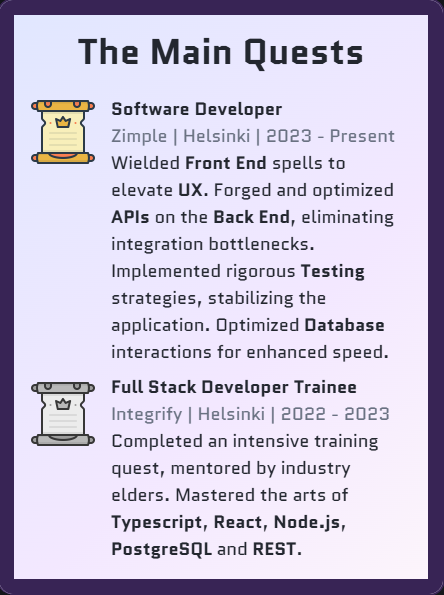
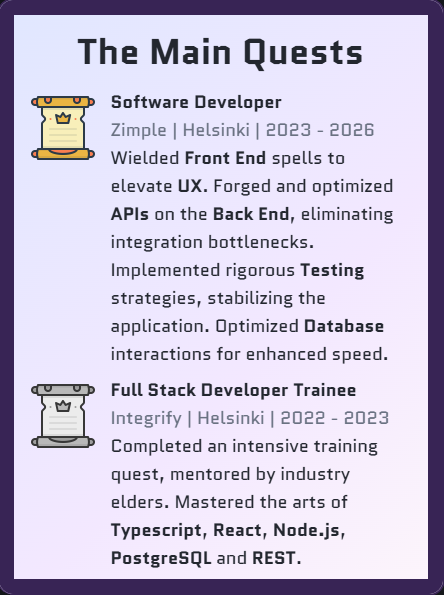
Edit main quests

diff --git a/src/components/mainQuests/MainQuestsCardContent.tsx b/src/components/mainQuests/MainQuestsCardContent.tsx
@@ -9,7 +9,7 @@ export default function MainQuestsCardContent() {
           imageSrc='/active-quest.png'
           title='Software Developer'
           company='Zimple'
-          period='2023 - Present'
+          period='2023 - 2026'
           description={
             <>
               Wielded <strong>Front End</strong> spells to elevate{' '}
